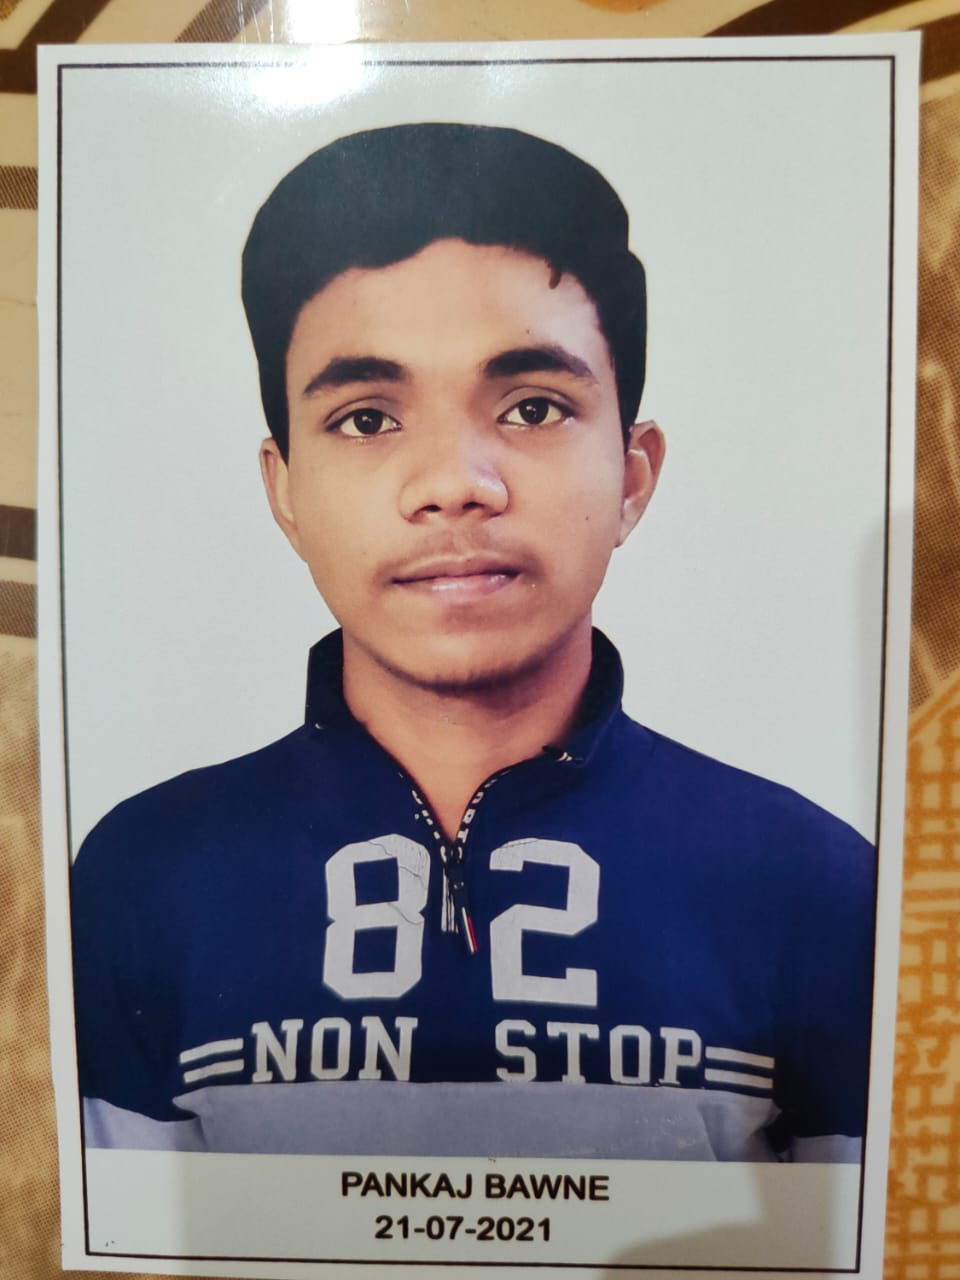
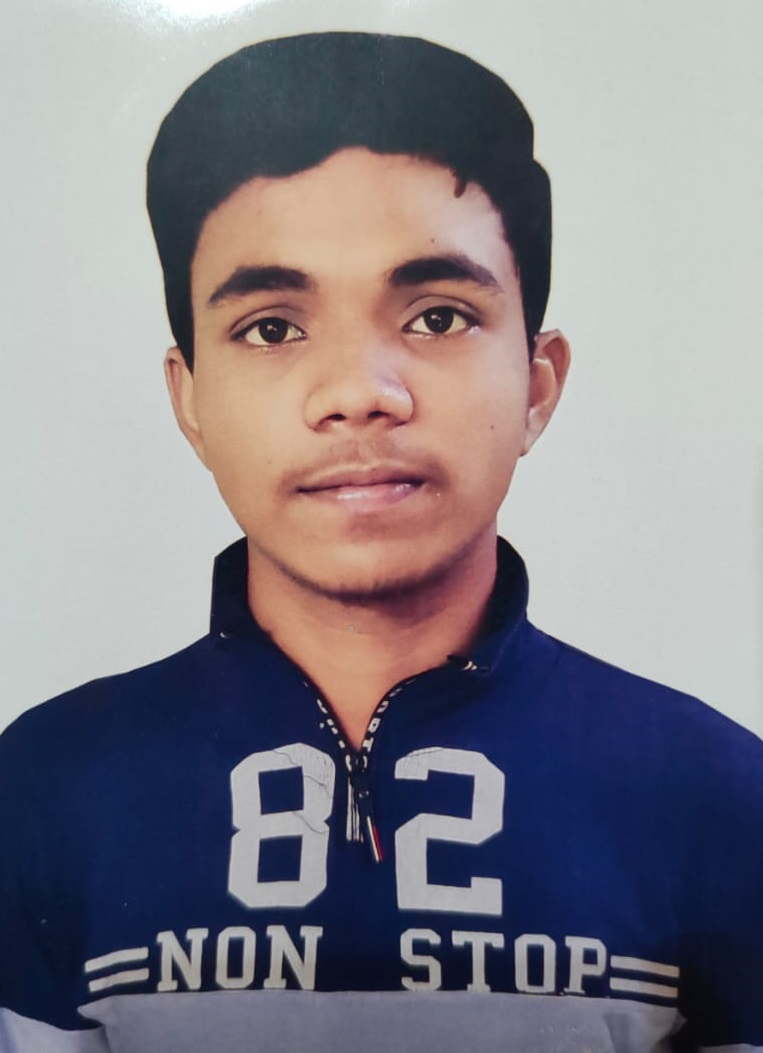
style passport

diff --git a/index.html b/index.html
@@ -6,22 +6,19 @@
     <meta name="viewport" content="width=device-width, initial-scale=1.0">
     <title>Personal Information</title>
     <style>
-        body {
-            font-family: calibri;
-        }
-        h1 {
-            text-align: center;
-        }
-        p {
-            text-align: center;
-            font-weight: bold;
-        }
+        body {font-family: calibri;}
+        .img-div {text-align: center;}
+        .passport {width: 170px;}
+        h1 {text-align: center;}
+        p {text-align: center; font-weight: bold;}
     </style>
 </head>
 <body>
     <h1>PERSONAL INFORMATION</h1>
-    <img src="passport.jpeg" alt="passport">
-    <h2 style="text-align: center;">Pankaj Bawane</h2>
+    <div class="img-div">
+        <img class="passport" src="passport.jpeg" alt="passport">
+    </div>
+    <h2 style="text-align: center;">Pankaj V. Bawane</h2>
     <p>EMAIL ID: </p>
     <p>Contact:</p>
     <p>Permanent adress:</p>
